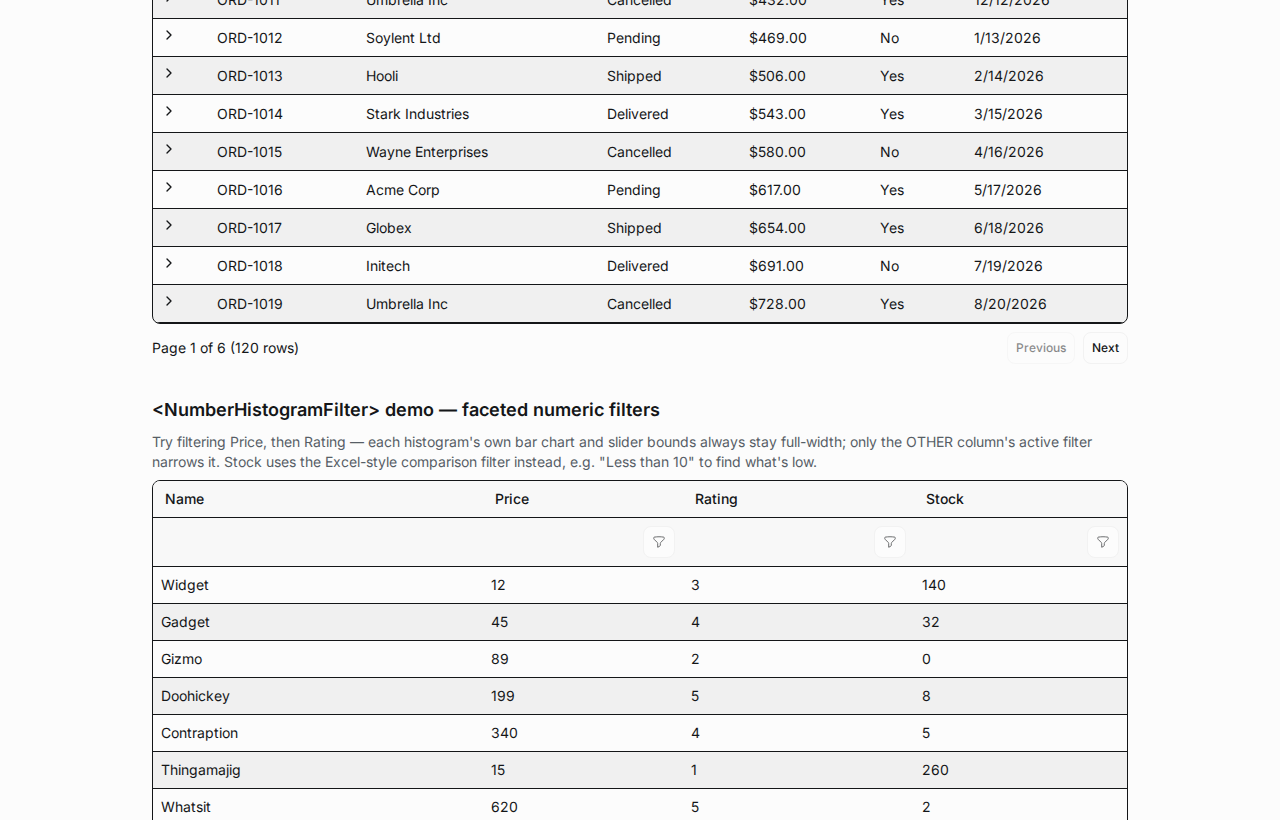
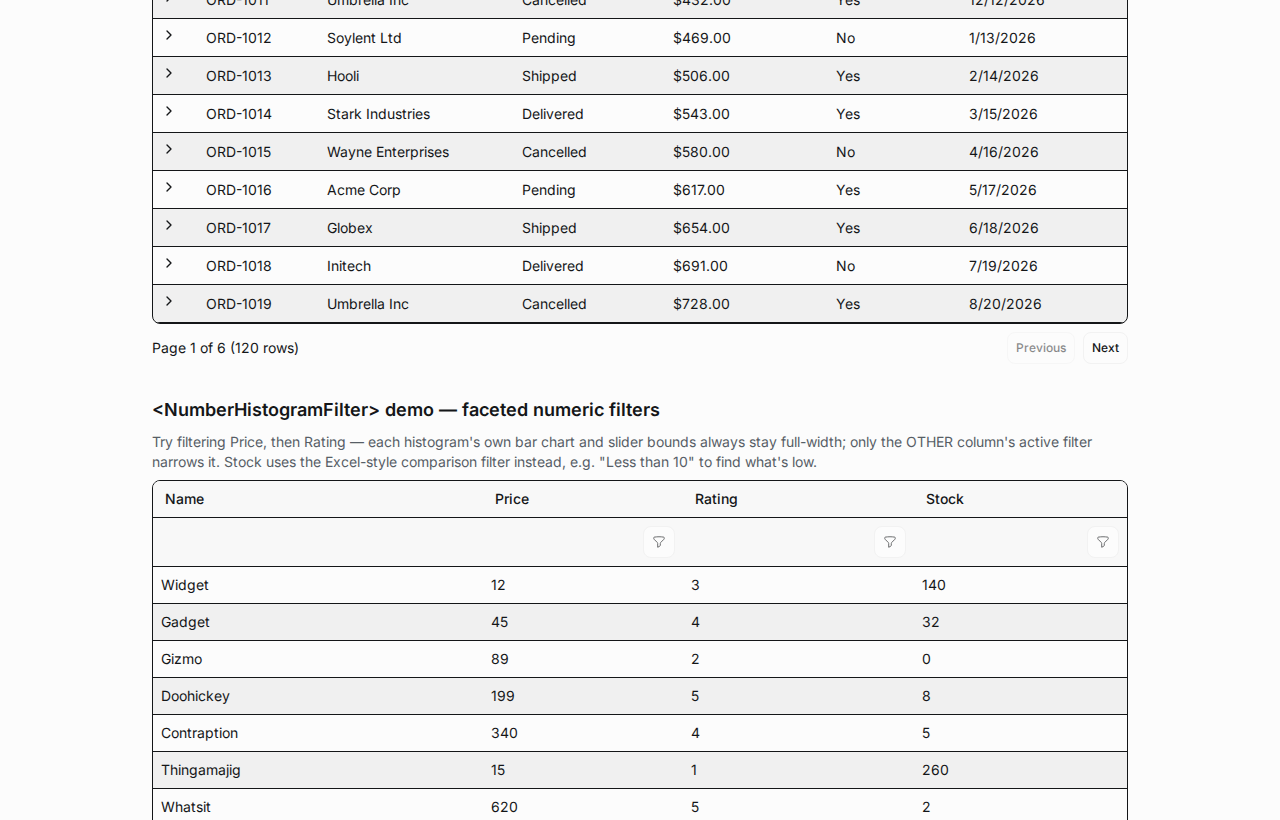
demo: default orders filters to header popovers, simplify virtualized-scroll demo
Drop the orders grid's explicit filterDisplay: "row" so its filters use
DataGrid's actual default (a compact header-icon popover) instead of a full
inline row. Also replace the virtualized-scroll demo's incremental
"load more on scroll" pattern with the full 5,000-row dataset rendered
straight through the virtualizer, and hide its Previous/Next pagination
footer (onStateChange there was a no-op, so those buttons never did
anything). Regenerates the docs screenshots to match.

Claude-Session: https://claude.ai/code/session_01XNthoNgMuScWVAjkNJR6yw

diff --git a/packages/datagrid/demo/src/App.tsx b/packages/datagrid/demo/src/App.tsx
@@ -36,7 +36,6 @@ const columns: ColumnDef<Order>[] = [
     accessorKey: "customer_name",
     sortable: true,
     filterable: true,
-    filterDisplay: "row",
     group: "Account",
   },
   {
@@ -46,7 +45,6 @@ const columns: ColumnDef<Order>[] = [
     accessorKey: "status",
     sortable: true,
     filterable: true,
-    filterDisplay: "row",
     group: "Details",
     options: [
       { value: "pending", label: "Pending" },
@@ -62,7 +60,6 @@ const columns: ColumnDef<Order>[] = [
     accessorKey: "amount",
     sortable: true,
     filterable: true,
-    filterDisplay: "row",
     group: "Financial",
   },
   {
@@ -72,7 +69,6 @@ const columns: ColumnDef<Order>[] = [
     accessorKey: "is_paid",
     sortable: true,
     filterable: true,
-    filterDisplay: "row",
     group: "Financial",
   },
   {
@@ -82,7 +78,6 @@ const columns: ColumnDef<Order>[] = [
     accessorKey: "created_at",
     sortable: true,
     filterable: true,
-    filterDisplay: "row",
     group: "Details",
   },
 ];
@@ -474,11 +469,15 @@ function HeaderGroupDemo(): ReactElement {
   );
 }
 
-// --- virtualized infinite-scroll demo: "server" mode with `data` growing on
-// every `onEndReached`, exactly the pattern real consuming apps use (a real
-// fetch would replace `loadMore`'s setTimeout). Deliberately "server" mode, not
+// --- virtualized scrolling demo: the full row set is already in memory
+// (no incremental "load more on scroll" — see AGENTS.md's `virtualize` for
+// that pattern if you need it instead), just rendered through the
+// virtualizer so scrolling 5,000 rows stays smooth. "server" mode, not
 // "client" — client mode still paginates via GridState.pageSize, which would
-// cap what's rendered to one page regardless of how many rows `data` holds.
+// cap what's rendered to one page regardless of how many rows `data` holds;
+// `showPagination={false}` hides the Previous/Next footer that would
+// otherwise imply paging even though `onStateChange` is a no-op here (there's
+// nothing to page — the whole dataset is already loaded).
 interface BigRow {
   id: string;
   label: string;
@@ -489,32 +488,22 @@ const bigRowColumns: ColumnDef<BigRow>[] = [
   { id: "label", type: "string", header: "Label", accessorKey: "label" },
 ];
 
-const TOTAL_AVAILABLE = 5000;
-const BATCH_SIZE = 100;
+const TOTAL_ROWS = 5000;
+const ALL_BIG_ROWS: BigRow[] = Array.from({ length: TOTAL_ROWS }, (_, i) => ({ id: String(i), label: `Item ${i}` }));
 
-function makeBigRowBatch(start: number, count: number): BigRow[] {
-  return Array.from({ length: count }, (_, i) => ({ id: String(start + i), label: `Item ${start + i}` }));
-}
-
-function VirtualizedInfiniteScrollDemo(): ReactElement {
-  const [items, setItems] = useState<BigRow[]>(() => makeBigRowBatch(0, BATCH_SIZE));
-
-  function loadMore(): void {
-    setItems((prev) =>
-      prev.length >= TOTAL_AVAILABLE ? prev : [...prev, ...makeBigRowBatch(prev.length, BATCH_SIZE)],
-    );
-  }
-
+function VirtualizedScrollDemo(): ReactElement {
   return (
     <div>
       <p className="mb-2 text-sm text-muted-foreground">
-        {items.length} of {TOTAL_AVAILABLE} rows loaded — scroll to the bottom to load 100 more.
+        {TOTAL_ROWS.toLocaleString()} rows, virtualized — only the rows near the visible viewport are
+        ever mounted, so scrolling stays smooth however far down the list you go.
       </p>
       <DataGrid
         columns={bigRowColumns}
-        dataSource={{ mode: "server", data: items, rowCount: TOTAL_AVAILABLE, onStateChange: () => {} }}
+        dataSource={{ mode: "server", data: ALL_BIG_ROWS, rowCount: TOTAL_ROWS, onStateChange: () => {} }}
         getRowId={(row) => row.id}
-        virtualize={{ maxBodyHeight: 300, onEndReached: loadMore, hasMore: items.length < TOTAL_AVAILABLE }}
+        showPagination={false}
+        virtualize={{ maxBodyHeight: 480 }}
       />
     </div>
   );
@@ -643,8 +632,8 @@ export function App(): ReactElement {
       <h2 className="mb-2 mt-8 text-lg font-semibold">headerGroup demo — spanning header cells</h2>
       <HeaderGroupDemo />
 
-      <h2 className="mb-2 mt-8 text-lg font-semibold">Virtualized infinite-scroll demo</h2>
-      <VirtualizedInfiniteScrollDemo />
+      <h2 className="mb-2 mt-8 text-lg font-semibold">Virtualized scrolling demo</h2>
+      <VirtualizedScrollDemo />
 
       <h2 className="mb-2 mt-8 text-lg font-semibold">
         &lt;TreeDataGrid&gt; demo — lazy-loading org chart

diff --git a/docs-site/src/pages/index.module.css b/docs-site/src/pages/index.module.css
@@ -18,6 +18,12 @@
 }
 
 .packageCard {
+  /* `<Link>` renders as an <a>, which is inline by default — without this,
+     an inline element wrapping block children (h3/p) fragments its own
+     border box per line, rendering as a phantom extra rectangle below the
+     text instead of one card outline. */
+  display: flex;
+  flex-direction: column;
   height: 100%;
   padding: 1.5rem;
   border-radius: var(--ifm-card-border-radius);
